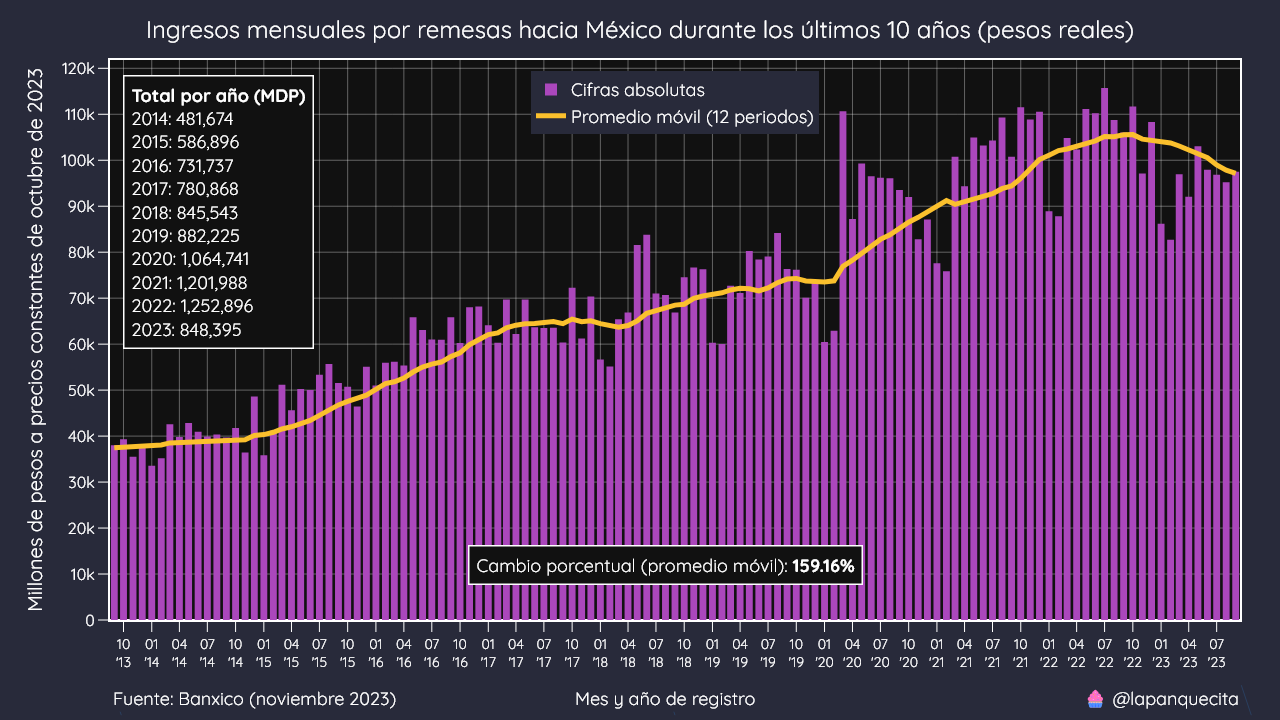
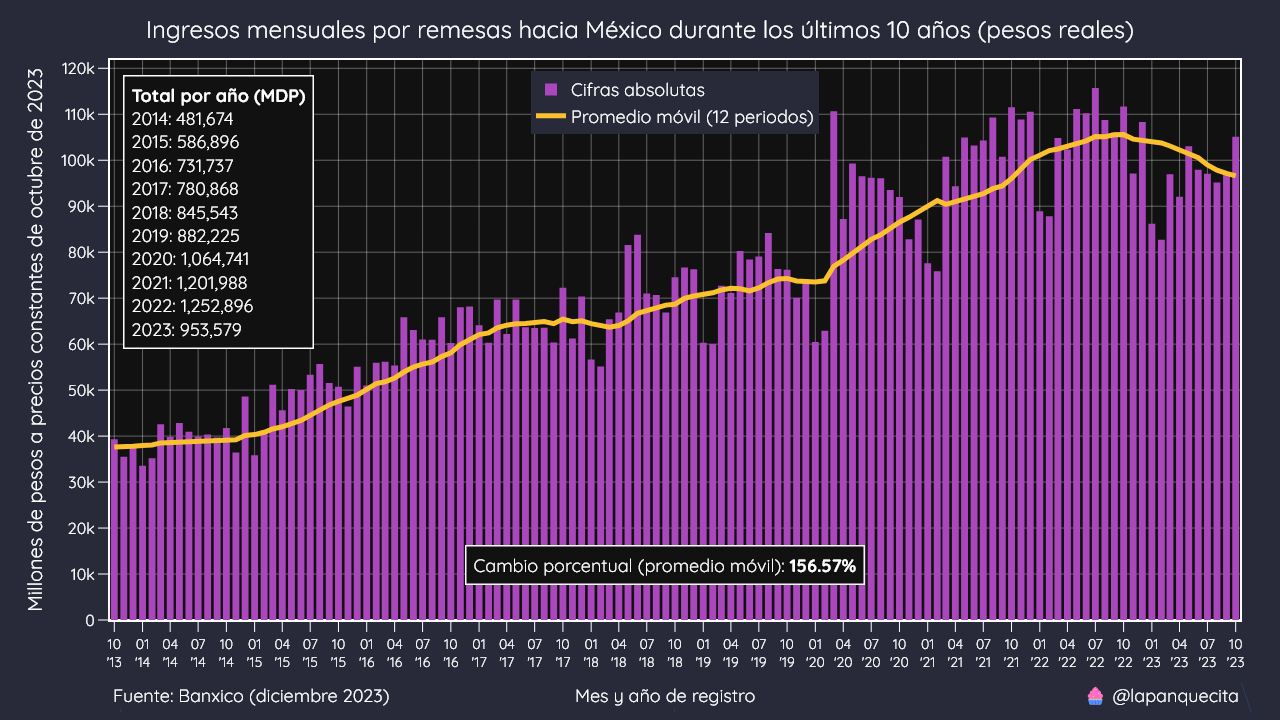
Add files via upload

Changed region(s): [[0.0938, 0.0917, 0.9688, 1.0]]

diff --git a/remesas_mensuales.py b/remesas_mensuales.py
@@ -18,6 +18,10 @@ import plotly.graph_objects as go
 import numpy as np
 
 
+# Mes y año en que se recopilaron los datos.
+FECHA_FUENTE = "diciembre 2023"
+
+
 def plot_mensuales():
 
     # Cargamos el dataset de las remesas mensuales.
@@ -152,16 +156,16 @@ def plot_mensuales():
             ),
             dict(
                 x=0.01,
-                y=-0.17,
+                y=-0.165,
                 xref="paper",
                 yref="paper",
                 xanchor="left",
                 yanchor="top",
-                text="Fuente: Banxico (noviembre 2023)"
+                text=f"Fuente: Banxico ({FECHA_FUENTE})"
             ),
             dict(
                 x=0.5,
-                y=-0.17,
+                y=-0.165,
                 xref="paper",
                 yref="paper",
                 xanchor="center",
@@ -170,7 +174,7 @@ def plot_mensuales():
             ),
             dict(
                 x=1.01,
-                y=-0.17,
+                y=-0.165,
                 xref="paper",
                 yref="paper",
                 xanchor="right",
@@ -326,16 +330,16 @@ def plot_pesos():
             ),
             dict(
                 x=0.01,
-                y=-0.17,
+                y=-0.165,
                 xref="paper",
                 yref="paper",
                 xanchor="left",
                 yanchor="top",
-                text="Fuente: Banxico (noviembre 2023)"
+                text=f"Fuente: Banxico ({FECHA_FUENTE})"
             ),
             dict(
                 x=0.5,
-                y=-0.17,
+                y=-0.165,
                 xref="paper",
                 yref="paper",
                 xanchor="center",
@@ -344,7 +348,7 @@ def plot_pesos():
             ),
             dict(
                 x=1.01,
-                y=-0.17,
+                y=-0.165,
                 xref="paper",
                 yref="paper",
                 xanchor="right",
@@ -516,16 +520,16 @@ def plot_real():
             ),
             dict(
                 x=0.01,
-                y=-0.17,
+                y=-0.165,
                 xref="paper",
                 yref="paper",
                 xanchor="left",
                 yanchor="top",
-                text="Fuente: Banxico (noviembre 2023)"
+                text=f"Fuente: Banxico ({FECHA_FUENTE})"
             ),
             dict(
                 x=0.5,
-                y=-0.17,
+                y=-0.165,
                 xref="paper",
                 yref="paper",
                 xanchor="center",
@@ -534,7 +538,7 @@ def plot_real():
             ),
             dict(
                 x=1.01,
-                y=-0.17,
+                y=-0.165,
                 xref="paper",
                 yref="paper",
                 xanchor="right",
@@ -584,7 +588,7 @@ def plot_real_anual():
     df.index = df.index.year
 
     # Le daremos formato a las cifras para que sean más fáciles de interpretar.
-    df["texto"] = df["real"].apply(format_text)
+    df["texto"] = df["real"].apply(lambda x:f"{x/1000000:,.3f}")
 
     # Creamos la escala para el eje vertical.
     marcas = np.linspace(0, 1300000, 14)
@@ -619,7 +623,7 @@ def plot_real_anual():
         tickcolor="#FFFFFF",
         linewidth=2,
         showline=True,
-        gridwidth=0.35,
+        showgrid=False,
         mirror=True,
         nticks=50,
     )
@@ -628,6 +632,7 @@ def plot_real_anual():
         title="Billones de pesos a precios constantes de octubre de 2023",
         tickvals=marcas,
         ticktext=textos,
+        titlefont_size=20,
         tickfont_size=16,
         ticks="outside",
         ticklen=10,
@@ -684,7 +689,7 @@ def plot_real_anual():
                 yref="paper",
                 xanchor="left",
                 yanchor="top",
-                text="Fuente: Banxico (noviembre 2023)"
+                text=f"Fuente: Banxico ({FECHA_FUENTE})"
             ),
             dict(
                 x=0.5,
@@ -709,13 +714,6 @@ def plot_real_anual():
 
     fig.write_image("./remesas_anuales_reales.png")
 
-
-def format_text(x):
-
-    if x >= 1000000:
-        return f"{x/1000000:,.2f}B"
-    else:
-        return f"{x/1000:,.0f}MM"
 
 
 if __name__ == "__main__":

diff --git a/remesas_municipio.py b/remesas_municipio.py
@@ -94,7 +94,6 @@ def plot_capita():
                 values=[
                     "<b>Pos.</b>",
                     f"<b>Municipio, Entidad</b>",
-                    # f"<b>Población 2020</b>",
                     f"<b>Remesas en dólares</b>",
                     "<b>Per cápita ↓</b>",
                 ],
@@ -108,7 +107,6 @@ def plot_capita():
                 values=[
                     df.index,
                     df["index"],
-                    # df["pop"],
                     df["total"],
                     df["capita"]
                 ],
@@ -245,7 +243,6 @@ def plot_absolutos():
                 values=[
                     "<b>Pos.</b>",
                     f"<b>Municipio, Entidad</b>",
-                    # f"<b>Población 2020</b>",
                     f"<b>Remesas en dólares ↓</b>",
                     "<b>Per cápita</b>",
                 ],
@@ -259,7 +256,6 @@ def plot_absolutos():
                 values=[
                     df.index,
                     df["index"],
-                    # df["pop"],
                     df["total"],
                     df["capita"]
                 ],
